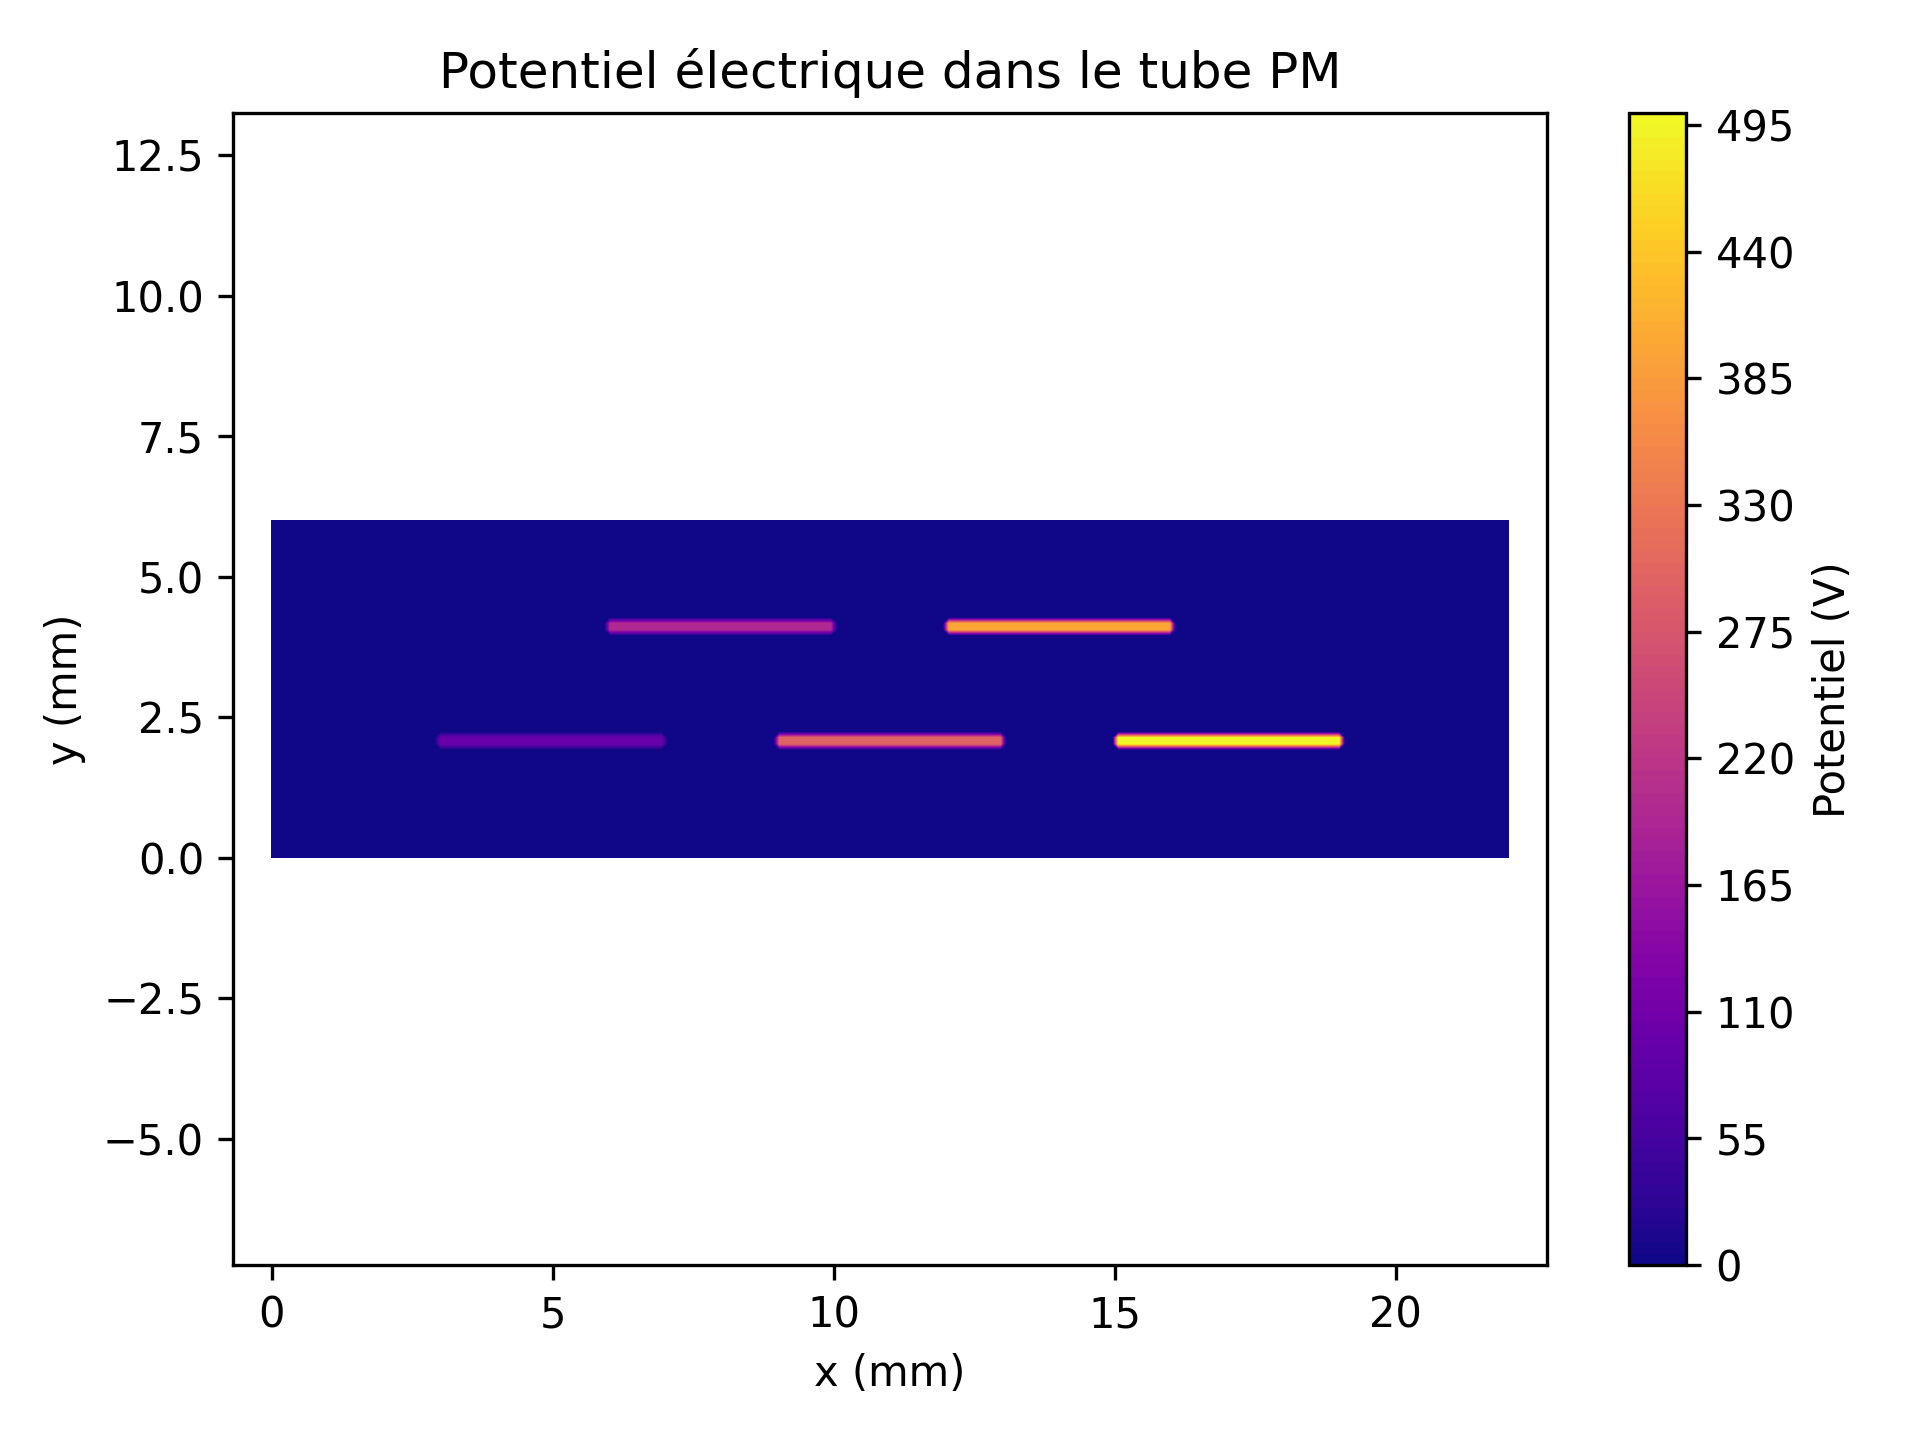
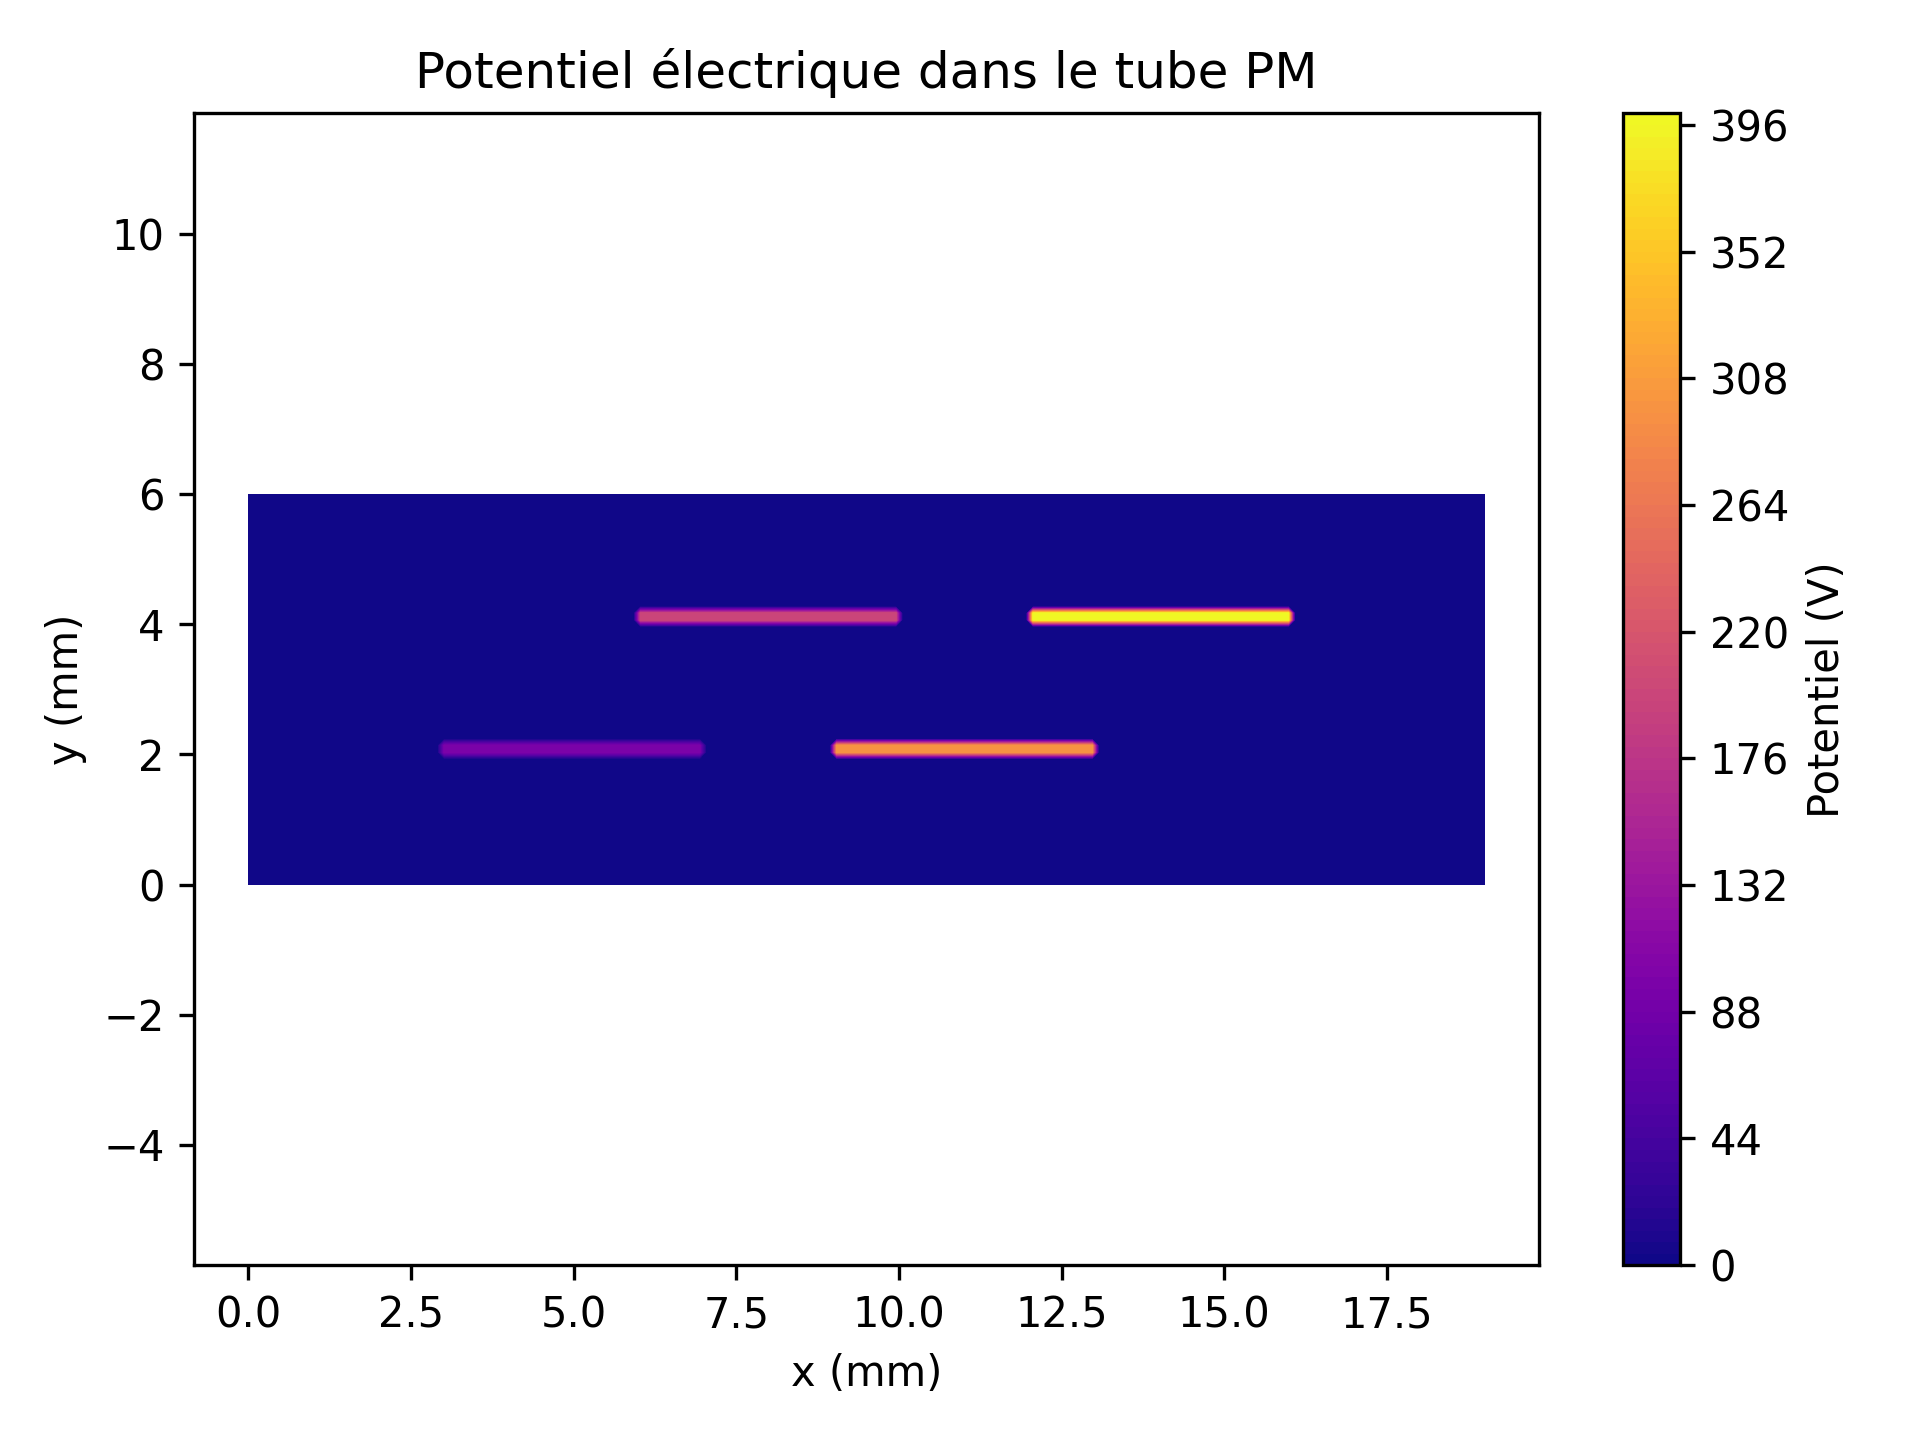
ça va

diff --git a/question3a.py b/question3a.py
@@ -5,7 +5,7 @@ import numpy as np
 # ------------- CHANGER LES PARAMÈTRES AVANT DE LANCER LE CODE -------------------- # 
 #initialiser la géométrie
 a, b, c, d, e, f = 3, 2, 4, 2, 0.2, 6
-N = 5
+N = 4
 dx = 0.1 # step
 
 # -----------------------------Question 1------------------------------#
@@ -142,8 +142,18 @@ def position_el(x0, y0, vx0, vy0, Ex, Ey, dx, dt, it_max):
     return np.array(x), np.array(y)
 
 # ---------------------------------------Question 3b --------------------------------------------#
+lum = 3*10**8
+x0 = 5
+y0 = 3
+vx0 = lum
+vy0 = 0
+dt = 1e-12
+it_max = 10**4
+traj_x, traj_y = position_el(x0, y0, vx0, vy0, Ex, Ey, dx, dt, it_max)
 
-traj_x, traj_y = position_el(x0=0, y0=0, vx0=0, vy0=0, dt=1e-12, it_max=4000)
+# ---------------------------------------Question 3c --------------------------------------------#
+
+
 
 
 #----------------------------------------affichage du pm champ électrique q2---------------------#
@@ -168,7 +178,7 @@ traj_x, traj_y = position_el(x0=0, y0=0, vx0=0, vy0=0, dt=1e-12, it_max=4000)
 
 #----------------------------------------affichage de la trajectoire x(t)------------------------#
 plt.contourf(X, Y, V, levels=100, cmap='plasma')
-plt.plot(traj_, traj_y, 'b-', label="Trajectoire")
+plt.plot(traj_x, traj_y, 'y-', label="Trajectoire")
 plt.plot(x0, y0, 'go', label="Départ (0,0)")
 plt.xlabel("x (mm)")
 plt.ylabel("y (mm)")
@@ -177,3 +187,6 @@ plt.legend()
 plt.axis("equal")
 plt.savefig("Q3b_trajectoire.png", dpi=300)
 plt.show()
+
+print("Position finale :", traj_x[-1], traj_y[-1])
+print("Déplacement total :", traj_x[-1] - traj_x[0], traj_y[-1] - traj_y[0])
